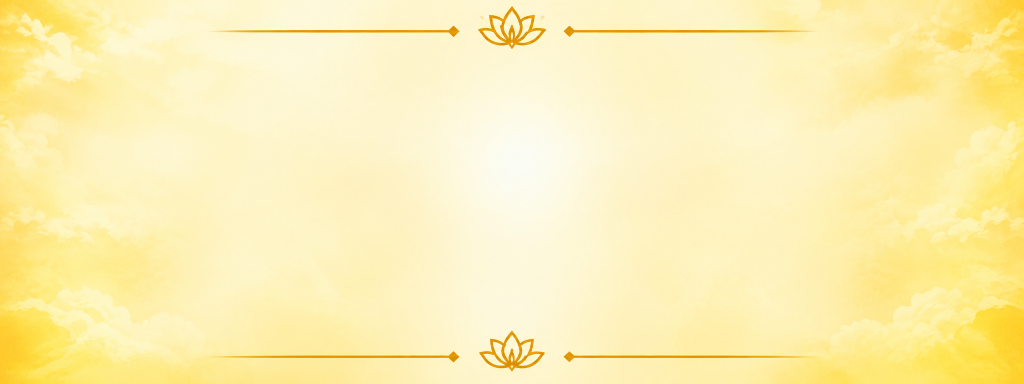
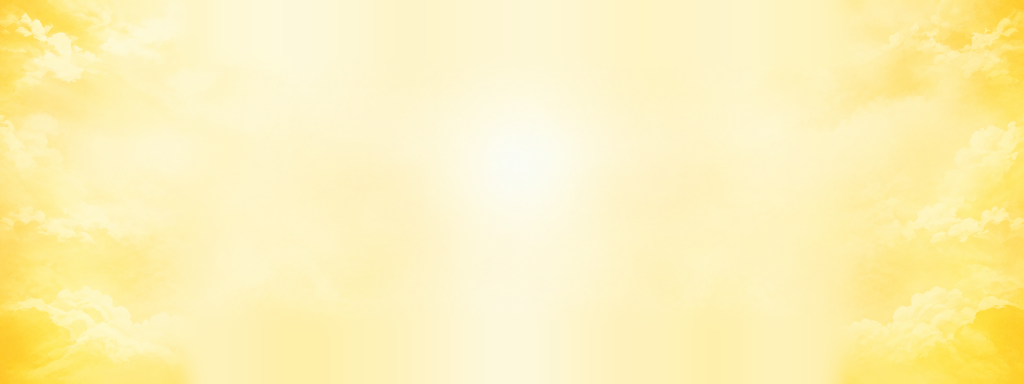
Remove About Guruji heading and lotus ornaments

Changed region(s): [[0.1562, 0.875, 0.8438, 1.0], [0.2188, 0.0312, 0.8125, 0.125], [0.7812, 0.0, 0.8125, 0.0312]]

diff --git a/src/routes/about.tsx b/src/routes/about.tsx
@@ -167,16 +167,9 @@ function AboutPage() {
       <section className="py-12 md:py-16">
         <div className="mx-auto max-w-6xl xl:max-w-7xl 2xl:max-w-[1400px] px-4 sm:px-6 lg:px-12 xl:px-8">
           <Reveal>
-            <div className="relative pt-4">
-              {/* Centered Maroon Pill Badge */}
-              <div className="absolute -top-1 left-1/2 -translate-x-1/2 z-20 inline-flex items-center gap-2 rounded-full border border-gold bg-[#5a0c18] px-6 py-1.5 text-xs sm:text-sm font-bold tracking-wide text-gold-light shadow-md">
-                <LotusIcon className="h-3.5 w-3.5 text-gold-light" />
-                <span>{tr({ en: "Our Guruji", te: "మా గురూజీ" })}</span>
-                <LotusIcon className="h-3.5 w-3.5 text-gold-light" />
-              </div>
-
+            <div className="relative">
               {/* Card Container with custom golden mandala background */}
-              <div className="relative overflow-hidden rounded-3xl border-2 border-gold/50 bg-[#FFFBF0] p-6 pt-10 sm:p-10 sm:pt-12 shadow-warm">
+              <div className="relative overflow-hidden rounded-3xl border-2 border-gold/50 bg-[#FFFBF0] p-6 sm:p-10 shadow-warm">
                 {/* Background image: celestial golden clouds and lotus ornament uploaded by user */}
                 <div
                   className="pointer-events-none absolute inset-0 bg-cover bg-center opacity-100"
@@ -184,16 +177,8 @@ function AboutPage() {
                   aria-hidden="true"
                 />
 
-                {/* Subtitle */}
-                <p className="relative z-10 text-center font-display italic text-lg sm:text-xl font-semibold text-maroon">
-                  {tr({
-                    en: "Guidance from the Masters",
-                    te: "గురువుల నుండి దివ్య మార్గదర్శకత్వం",
-                  })}
-                </p>
-
                 {/* Profiles Grid */}
-                <div className="relative z-10 mt-8 grid gap-10 md:grid-cols-2">
+                <div className="relative z-10 grid gap-10 md:grid-cols-2">
                   {/* Profile 1: Vissavajhula Nagesh Sharma */}
                   <div className="flex flex-col sm:flex-row items-center sm:items-start gap-5 text-center sm:text-left">
                     <div className="relative shrink-0 w-32 h-32 sm:w-36 sm:h-36 overflow-hidden rounded-2xl border-2 border-gold/60 bg-cream/90 shadow-md">
